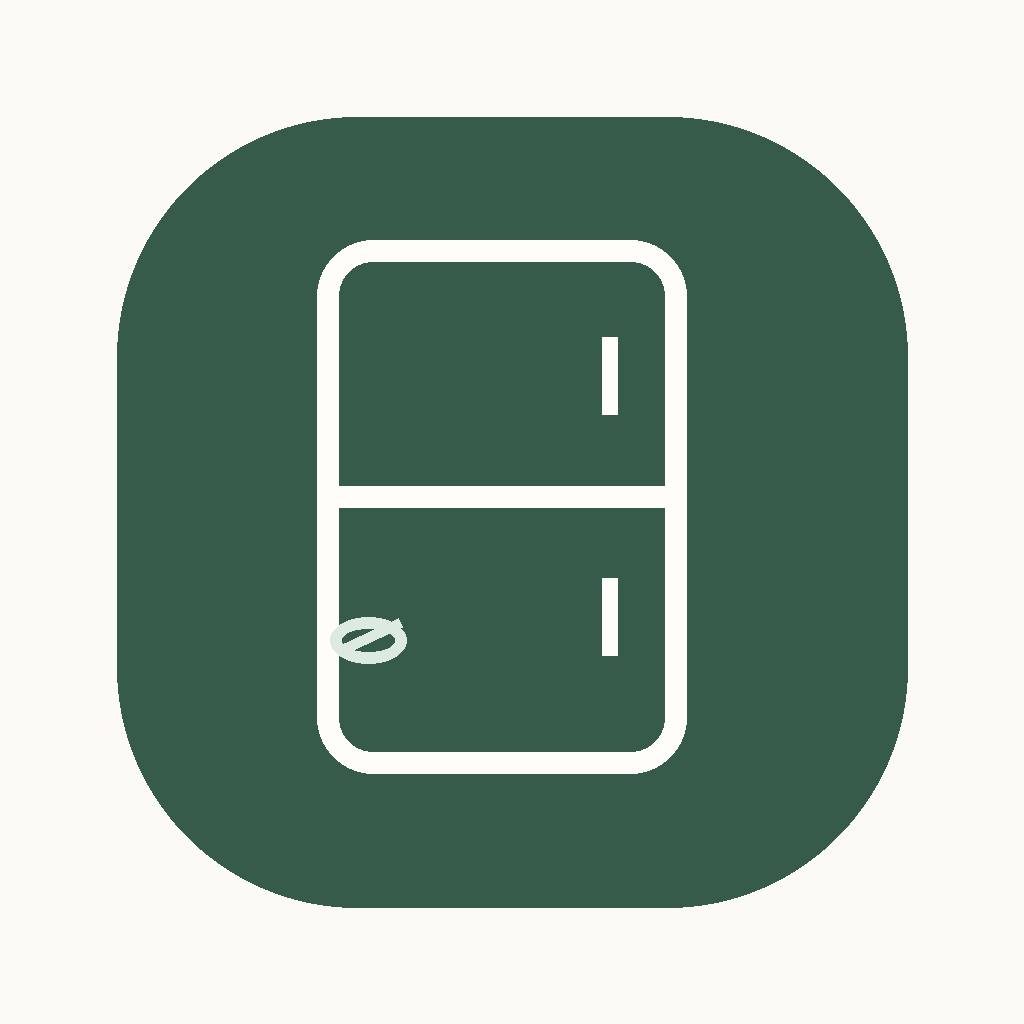
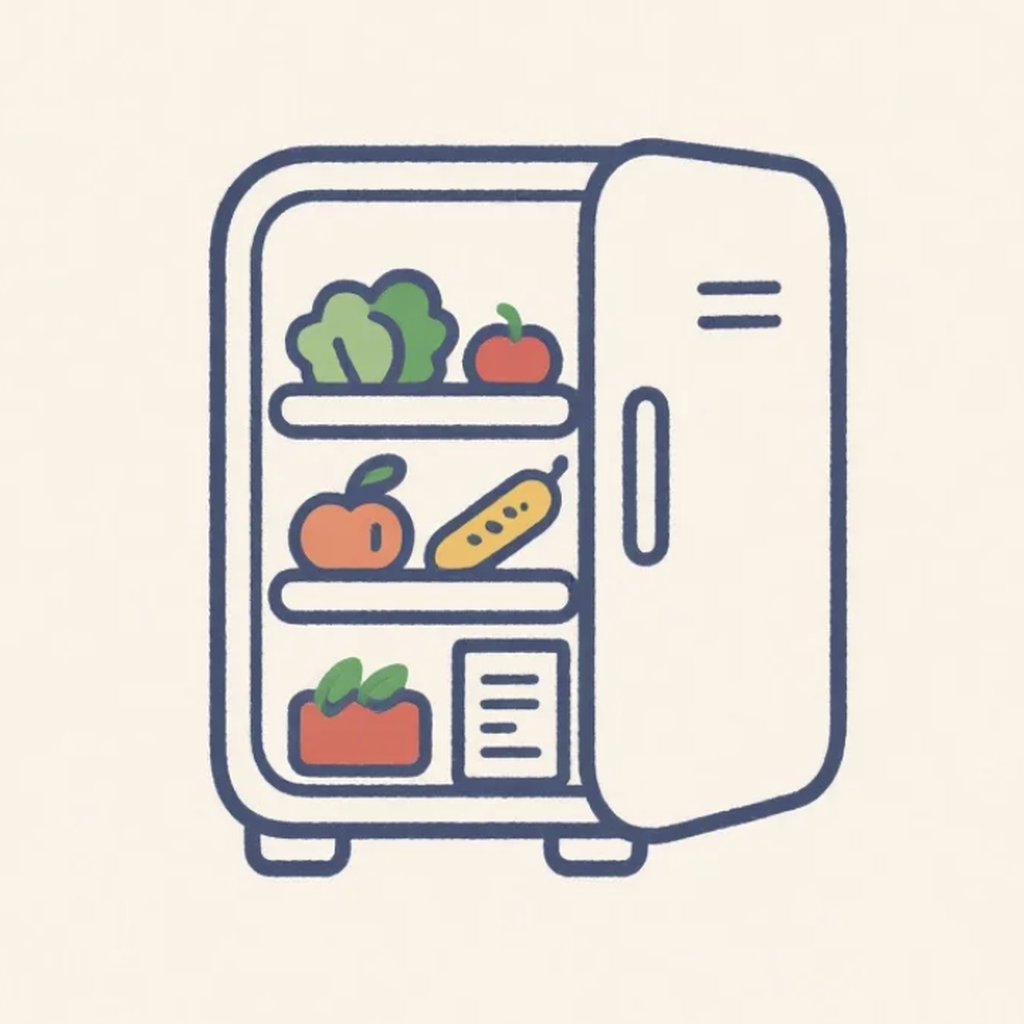
测试版更新
更新

diff --git a/app.js b/app.js
@@ -378,8 +378,13 @@ function saveItem(){
 }
 
 function consumeItem(id){
-  const i=state.items.find(x=>x.id===id); if(!i)return;
-  state.items=state.items.filter(x=>x.id!==id); saveLocal(); toast(`已将「${i.name}」标记为用完`);
+  const i=state.items.find(x=>x.id===id);
+  if(!i) return;
+  const ok = window.confirm(`确定将「${i.name}」标记为用完，并从库存中删除吗？`);
+  if(!ok) return;
+  state.items=state.items.filter(x=>x.id!==id);
+  saveLocal();
+  toast(`已将「${i.name}」标记为用完`);
 }
 
 function deleteCurrent(){

diff --git a/service-worker.js b/service-worker.js
@@ -1,4 +1,4 @@
-const CACHE="food-storage-pwa-v5";
+const CACHE="food-storage-pwa-v6";
 const ASSETS=["./","./index.html","./styles.css","./app.js","./manifest.json","./food-data.json","./icons/icon-180.png","./icons/icon-192.png","./icons/icon-512.png","./icons/icon-1024.png"];
 self.addEventListener("install",e=>e.waitUntil(caches.open(CACHE).then(c=>c.addAll(ASSETS))));
 self.addEventListener("activate",e=>e.waitUntil(caches.keys().then(keys=>Promise.all(keys.filter(k=>k!==CACHE).map(k=>caches.delete(k))))));

diff --git a/README.md b/README.md
@@ -69,3 +69,9 @@ Safari 打开 GitHub Pages 地址 → 分享 → 添加到主屏幕。
 - 更新 App 图标：180 / 192 / 512 / 1024 px。
 - iPhone 添加到主屏幕使用独立 180×180 Apple Touch Icon。
 - Service Worker 缓存升级到 v5。
+
+## v6 更新
+- App 图标改为用户提供的冰箱插画。
+- 已更新 180 / 192 / 512 / 1024 px 图标资源。
+- “用完”按钮新增确认弹窗，避免误删库存。
+- Service Worker 缓存升级到 v6。
